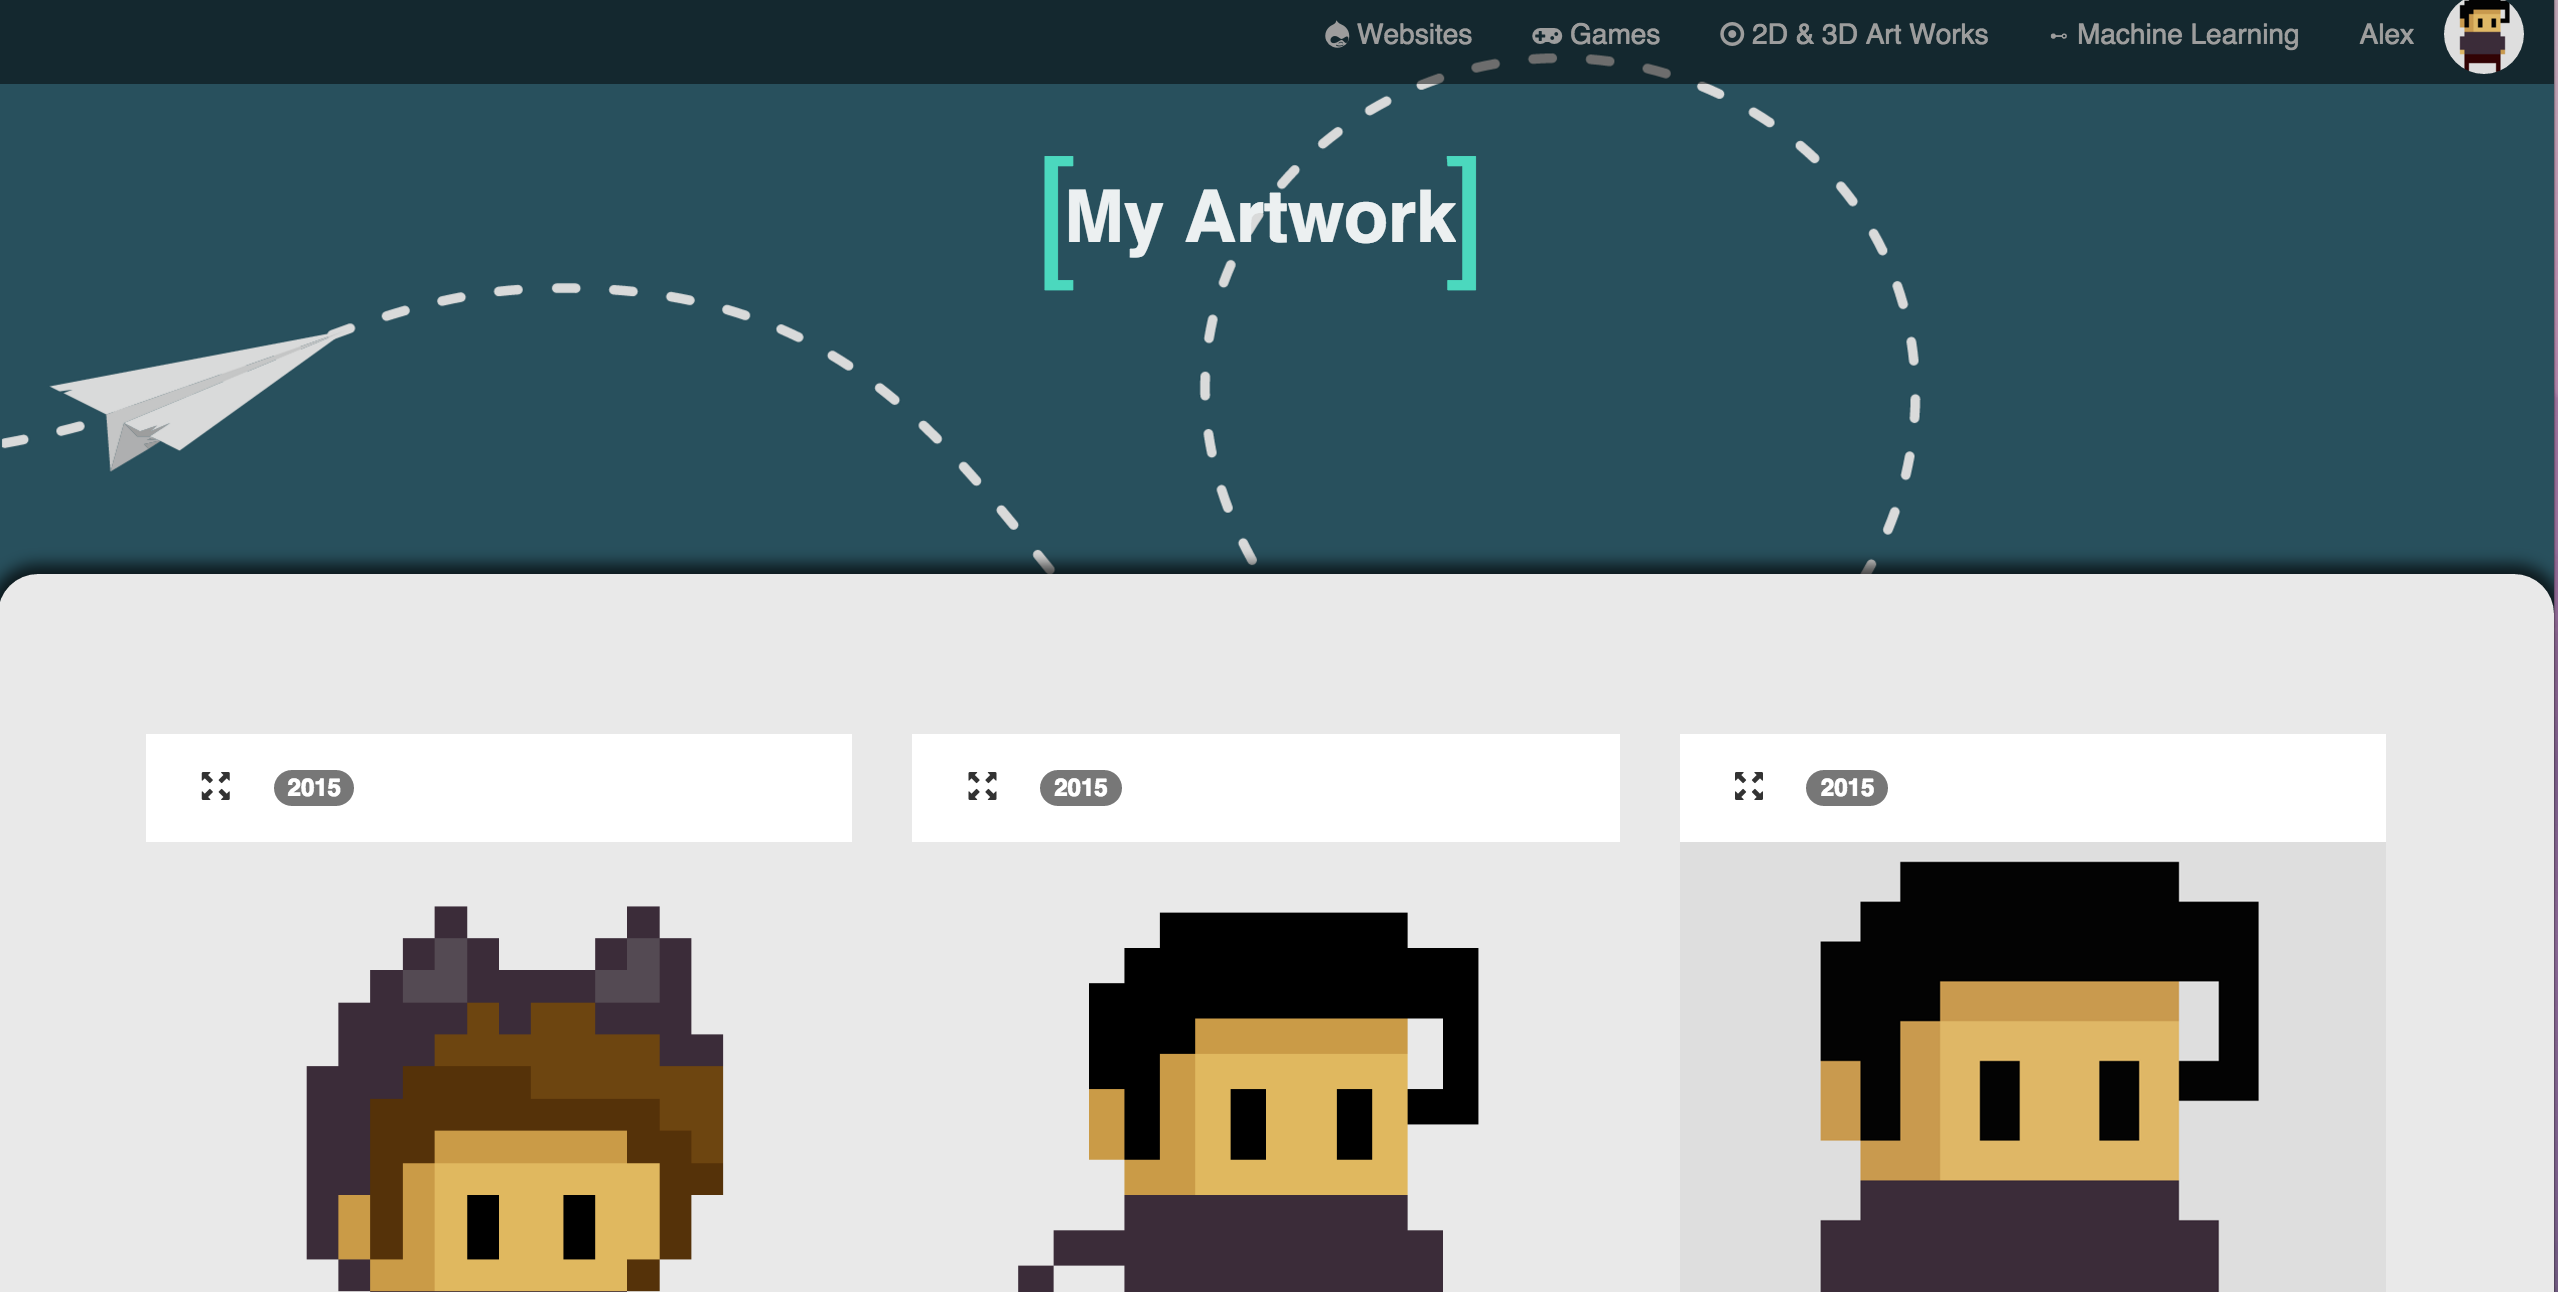
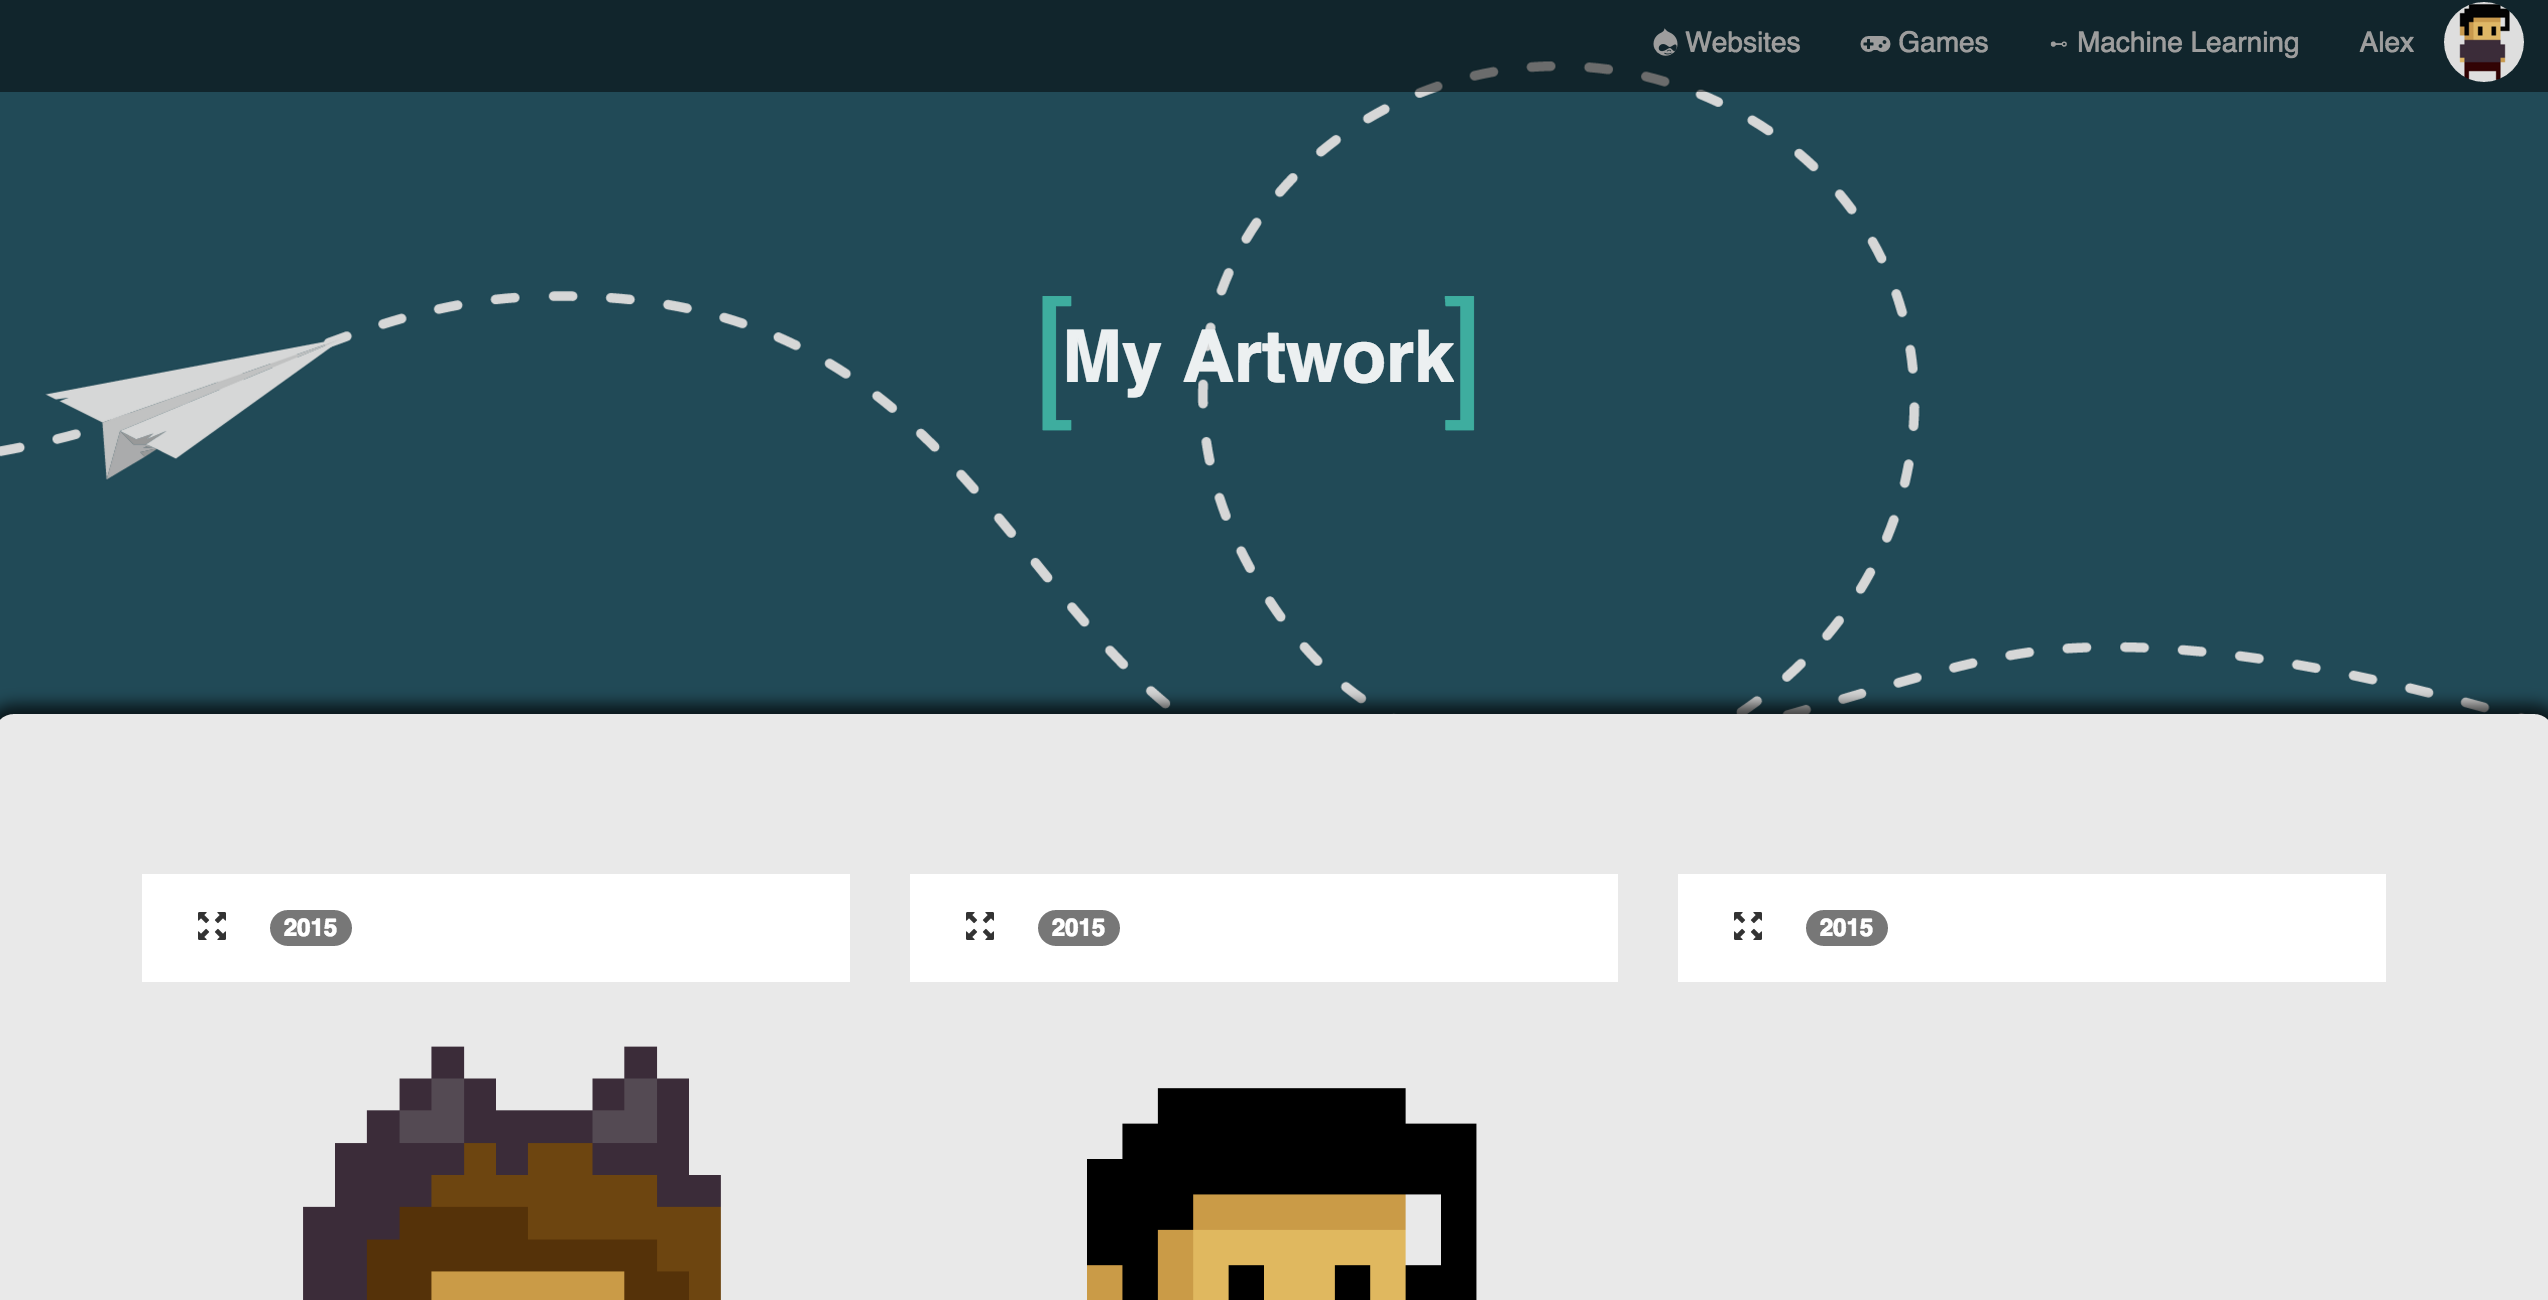
minor change

diff --git a/artPage.html b/artPage.html
@@ -29,8 +29,6 @@
 <body ng-app="ngFilter" ng-controller="MainController as main">
 
     <!--   This is the page loading icon   -->
-    <!--
-
     <table id="doc-loader">
         <tr>
             <td>
@@ -38,7 +36,7 @@
             </td>
         </tr>
     </table>
--->
+
 
 
 
@@ -69,11 +67,9 @@
                     </li>
 
                     <li>
-                        <a href="#"><i class="fa fa-gamepad"></i> Games </a>
+                        <a href="gamesPage.html"><i class="fa fa-gamepad"></i> Games </a>
                     </li>
-                    <li>
-                        <a href="#"><i class="fa fa-dot-circle-o"></i> 2D & 3D Art Works </span></a>
-                    </li>
+
                     <li>
                         <a href="#">⊷ Machine Learning </span></a>
                     </li>
@@ -191,9 +187,6 @@
 
 
     </div>
-
-
-
 
 
 

diff --git a/gamesPage.html b/gamesPage.html
@@ -29,8 +29,6 @@
 <body ng-app="ngFilter" ng-controller="MainController as main">
 
     <!--   This is the page loading icon   -->
-    <!--
-
     <table id="doc-loader">
         <tr>
             <td>
@@ -38,7 +36,7 @@
             </td>
         </tr>
     </table>
--->
+
 
 
 
@@ -69,10 +67,7 @@
                     </li>
 
                     <li>
-                        <a href="#"><i class="fa fa-gamepad"></i> Games </a>
-                    </li>
-                    <li>
-                        <a href="#"><i class="fa fa-dot-circle-o"></i> 2D & 3D Art Works </span></a>
+                        <a href="artPage.html"><i class="fa fa-dot-circle-o"></i> 2D & 3D Art Works </span></a>
                     </li>
                     <li>
                         <a href="#">⊷ Machine Learning </span></a>
